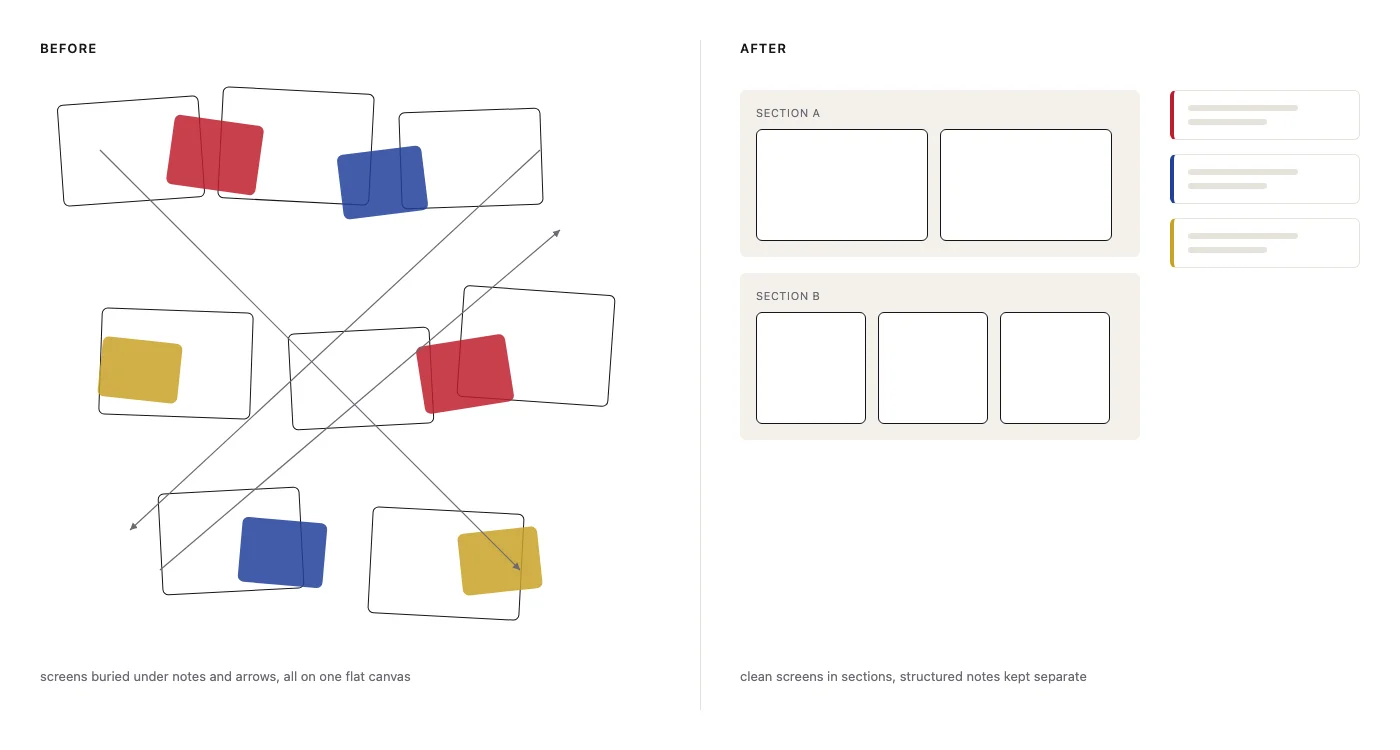
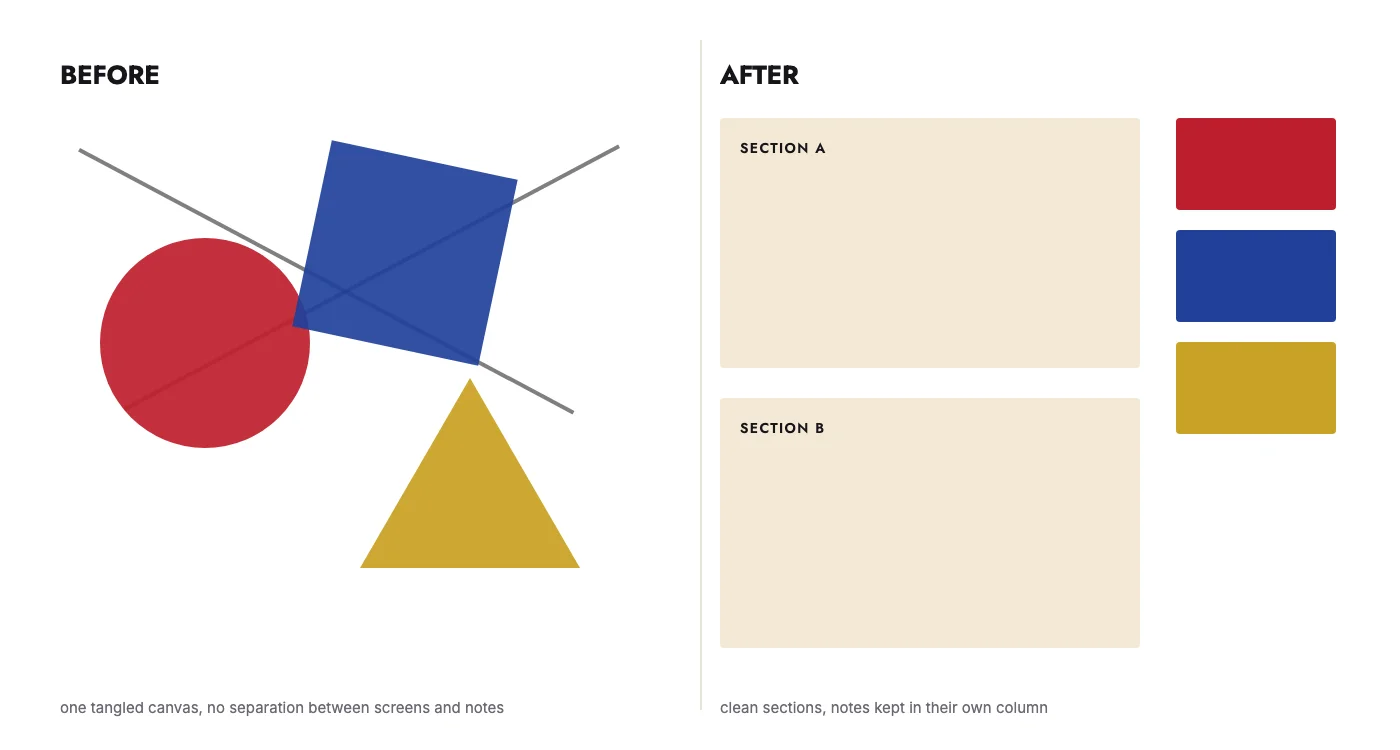
Redraw Ericsson diagrams with authentic Bauhaus-poster boldness
The first pass read as generic UI-mockup diagrams: thin outlines, small
scattered accent shapes, lots of unused white space. Redrawn after
looking at real Bauhaus-Archiv exhibition posters (Herbert Bayer's 1968
50-Jahre-Bauhaus poster, Heinz Walter Allner's Neubau poster): one or
two large, flat, saturated geometric shapes doing the compositional
work, oversized geometric-sans wordmarks, confident negative space
instead of sparse-looking whitespace. Same real palette and Jost/Inter
type, same conceptual content per diagram, redrawn at 2-3x the visual
weight.

diff --git a/work/ericsson.html b/work/ericsson.html
@@ -96,7 +96,7 @@
       <figure class="mt-0">
         <picture>
           <source srcset="/images/ericsson/case1-before-after.webp" type="image/webp">
-          <img src="/images/ericsson/case1-before-after.jpg" width="1400" height="750" alt="Abstract before-and-after diagram. Left: a cluttered canvas of screens buried under overlapping coloured note blocks and crossing arrows. Right: an ordered canvas with clean screens grouped into labelled sections, and a separate column of three tidy notes in red, blue and gold." loading="lazy">
+          <img src="/images/ericsson/case1-before-after.jpg" width="1400" height="750" alt="Bold geometric before-and-after diagram. Left: a large red circle, blue square and gold triangle tangled together under crossing lines. Right: two calm section blocks and a column of three solid colour bars, red, blue and gold." loading="lazy">
         </picture>
         <figcaption>Redrawn abstractly to stay NDA-safe: no real screens or product text.</figcaption>
       </figure>
@@ -119,7 +119,7 @@
       <figure class="mt-0">
         <picture>
           <source srcset="/images/ericsson/case1-the-rule.webp" type="image/webp">
-          <img src="/images/ericsson/case1-the-rule.jpg" width="1400" height="700" alt="Diagram of the delivery-for-ai structure: a labelled 'screens' panel captioned 'show what it looks like' on the left, and a labelled 'notes' panel of three cards, interaction behaviour, style tokens, and a changes summary, captioned 'say how it behaves' on the right." loading="lazy">
+          <img src="/images/ericsson/case1-the-rule.jpg" width="1400" height="700" alt="Diagram with the word SCREENS in large bold type on the left, captioned 'show what it looks like', beside a wireframe outline; and the word NOTES on the right, captioned 'say how it behaves', beside three solid colour bars in red, blue and gold." loading="lazy">
         </picture>
       </figure>
     </div>
@@ -217,7 +217,7 @@
       <figure class="mt-0">
         <picture>
           <source srcset="/images/ericsson/case3-card.webp" type="image/webp">
-          <img src="/images/ericsson/case3-card.jpg" width="1000" height="450" alt="Abstract diagram comparing a red-topped fixed-size card, captioned 'breaks the moment content changes', to three blue-topped flexible cards of increasing size, captioned 'responds to whatever width it's given'." loading="lazy">
+          <img src="/images/ericsson/case3-card.jpg" width="1000" height="450" alt="Diagram comparing a single large red square with a crack through it, captioned 'breaks the moment content changes', to three solid blue bars of increasing height, captioned 'responds to whatever width it's given'." loading="lazy">
         </picture>
       </figure>
     </div>
